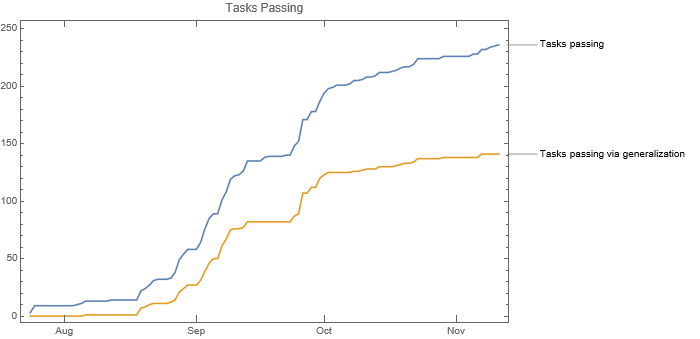
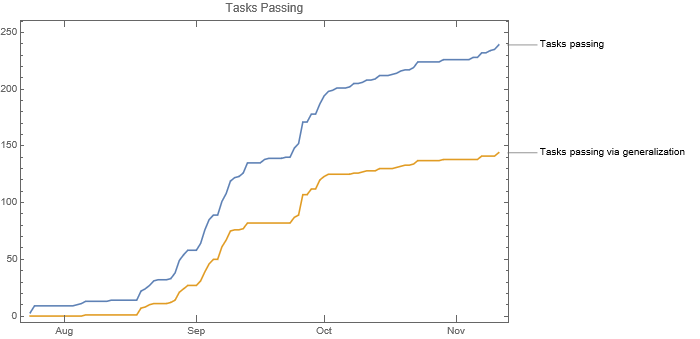
Fixes

diff --git a/README.md b/README.md
@@ -12,7 +12,7 @@ https://github.com/fchollet/ARC
   ![Percentage of Training Tasks Passing](TrainingTasksProgressBar.png?raw=true)
   * Implemented: 92
   * Passing via generalization: 86
-* Evaluation tasks: 61 / 400 (15.2%)\
+* Evaluation tasks: 64 / 400 (16%)\
   ![Percentage of Evaluation Tasks Passing](EvaluationTasksProgressBar.png?raw=true)
 
 ## Progress over Time
@@ -228,7 +228,7 @@ The following ARC training tasks started passing after some different task was i
 * [dc1df850](TaskNotes/dc1df850/notes.md)
 * [3bdb4ada](TaskNotes/3bdb4ada/notes.md)
 
-### Evaluation Tasks (61)
+### Evaluation Tasks (64)
 
 The following ARC evaluation tasks are passing. My intention is to not analyzed or implemented evaluation examples specifically, but I have implemented a few accidentally.
 
@@ -291,5 +291,8 @@ The following ARC evaluation tasks are passing. My intention is to not analyzed 
 * [2b01abd0](TaskNotes/2b01abd0/notes.md)
 * [817e6c09](TaskNotes/817e6c09/notes.md)
 * [8ee62060](TaskNotes/8ee62060/notes.md)
+* [3ee1011a](TaskNotes/3ee1011a/notes.md)
+* [7039b2d7](TaskNotes/7039b2d7/notes.md)
+* [da2b0fe3](TaskNotes/da2b0fe3/notes.md)
 * [e5790162](TaskNotes/e5790162/notes.md)
 * [27a77e38](TaskNotes/27a77e38/notes.md)

diff --git a/TaskNotes/3ee1011a/notes.md b/TaskNotes/3ee1011a/notes.md
@@ -1,0 +1,10 @@
+# 3ee1011a
+
+## Examples
+
+![ARC examples for 3ee1011a](examples.png?raw=true)
+
+## Rules (DSL)
+
+![DSL rules for 3ee1011a](rules.png?raw=true)
+

diff --git a/TaskNotes/7039b2d7/notes.md b/TaskNotes/7039b2d7/notes.md
@@ -1,0 +1,10 @@
+# 7039b2d7
+
+## Examples
+
+![ARC examples for 7039b2d7](examples.png?raw=true)
+
+## Rules (DSL)
+
+![DSL rules for 7039b2d7](rules.png?raw=true)
+

diff --git a/TaskNotes/da2b0fe3/notes.md b/TaskNotes/da2b0fe3/notes.md
@@ -1,0 +1,10 @@
+# da2b0fe3
+
+## Examples
+
+![ARC examples for da2b0fe3](examples.png?raw=true)
+
+## Rules (DSL)
+
+![DSL rules for da2b0fe3](rules.png?raw=true)
+
